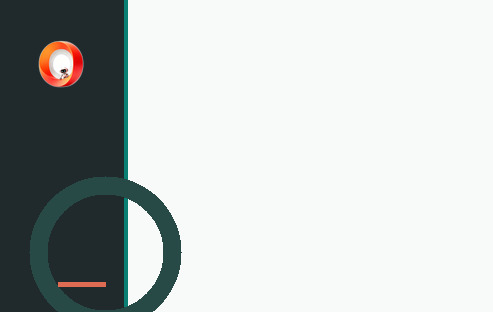
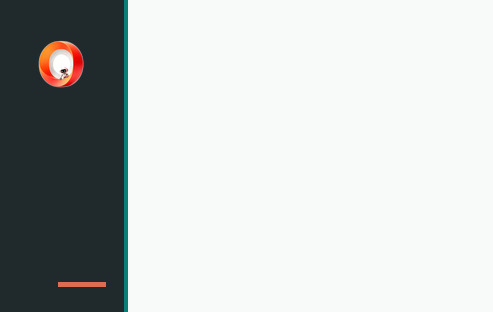
fix(installer): remove decorative ring from MSI dialog

Changed region(s): [[0.0609, 0.5481, 0.3651, 1.0]]

diff --git a/src/tests/ut/node/packaging/windows-installer-config.test.js b/src/tests/ut/node/packaging/windows-installer-config.test.js
@@ -140,3 +140,14 @@ test('keeps install-page decoration out of the shared bootstrapper background', 
     assert.deepEqual([background.width, background.height], [920, 600]);
     assert.deepEqual([featureRows.width, featureRows.height], [530, 238]);
 });
+
+test('keeps the compact MSI background free of the decorative ring', () => {
+    const assetScript = fs.readFileSync(path.join(projectRoot, 'scripts', 'generate-wix-installer-assets.mjs'), 'utf8');
+    const dialogBackground = assetScript.match(/async function createDialogBackground\(\) \{[\s\S]*?\n\}/)[0];
+    const bootstrapperBackground = assetScript.match(
+        /async function createBootstrapperBackground\(\) \{[\s\S]*?\n\}/
+    )[0];
+
+    assert.doesNotMatch(dialogBackground, /drawRing\(/);
+    assert.match(bootstrapperBackground, /drawRing\(/);
+});
